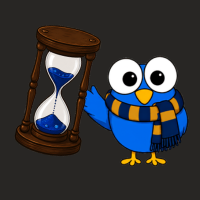
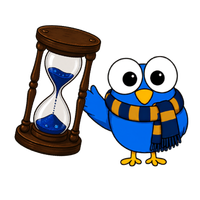
Refactor code structure for improved readability and maintainability

diff --git a/kolej.html b/kolej.html
@@ -73,7 +73,7 @@
       <i><p style="color: #4affa4; font-weight: bold; margin-bottom: 12px;">*Orel uznale pokývne hlavou a dveře se s hlasitým cvaknutím otevřou. Vstoupíš do trezoru.*</p></i>
       <div class="hp-trezor-box">
         <div class="hp-trezor-header">
-          <img src="ikony/presypacihodiny.png" alt="Safír"><h3>Safírový trezor</h3>
+          <img src="kdovik_obrazky/presypacihodiny.png" alt="Safír"><h3>Safírový trezor</h3>
           <p style="font-size:12px; color:#aebbc8;">Zde vidíš přehled všech safírů, které se ti podařilo získat.
            Co teď? Pošli některému z Péček sovu, aby ti je vyměnili za předměty z Příčné ulice či Prasinek!
              Hodnota jednoho safíru jsou <b>2 galeony</b>.</p> 
@@ -265,10 +265,12 @@
     <h2>Motivační soutěže</h2>
     <div id="hp-flag-list" class="hp-flag-list">
       <div style="background:var(--surface); border: 1px solid var(--border); padding:15px; border-radius:8px; text-align:left; margin-bottom:10px;">
-        <strong style="color:var(--gold); font-size:14px;">Aktuální kolejní výzva:</strong>
-        <p style="font-size:12px; margin-top:5px; line-height:1.4;">Sbírejte body, hledejte tajné balíčky a pomozte Havraspáru vyhrát školní pohár! Každá snaha se počítá a přispívá k triumfu naší kolejní věže.</p>
+        <img src="kdovik_obrazky/kdovik_tk.png" alt="Kdovíkova výprava do komnat" style="width:60%; max-width:180px; border-radius:6px; margin:8px auto 0; display:block;">
+        <strong style="color:var(--gold); font-size:14px; display:block; margin-top:10px;">Kdovíkova výprava do komnat</strong>
+        <p style="font-size:12px; margin-top:8px; line-height:1.4;">Vydej se hledat ukrytou tajemnou komnatu a odhal místo, které čeká jen na ty nejzvídavější studenty. Za nalezení komnaty a vstup do jejího tajemného prostoru můžeš získat safíry do svého safírového konta.</p>
+        <p style="font-size:11px; margin-top:8px; color:#aebbc8; font-style:italic;">O tuto aktivitu se stará Mia Rose.</p>
 
-        <div style="text-align: center; margin-top: 15px;">
+        <div style="text-align: center; margin-top: 12px;">
           <a href="#" target="_blank" style="text-decoration: none;">
             <button style="width: 75%; background: linear-gradient(180deg, #b58900 0%, #856404 100%); border-color: var(--gold);">
                Výsledky motivaček za měsíce
@@ -277,10 +279,12 @@
         </div>
       </div>
       <div style="background:var(--surface); border: 1px solid var(--border); padding:15px; border-radius:8px; text-align:left; margin-bottom:10px;">
-        <strong style="color:var(--gold); font-size:14px;">Aktuální kolejní výzva:</strong>
-        <p style="font-size:12px; margin-top:5px; line-height:1.4;">Sbírejte body, hledejte tajné balíčky a pomozte Havraspáru vyhrát školní pohár! Každá snaha se počítá a přispívá k triumfu naší kolejní věže.</p>
+        <img src="kdovik_obrazky/kdovik_postup.png" alt="Kdovíkův školní pohár" style="width:60%; max-width:180px; border-radius:6px; margin:8px auto 0; display:block;">
+        <strong style="color:var(--gold); font-size:14px; display:block; margin-top:10px;">Kdovíkův školní pohár</strong>
+        <p style="font-size:12px; margin-top:8px; line-height:1.4;">Každý bod se počítá! Pomoz své koleji získávat body do školního poháru a přispěj k jejímu vítězství. Za svou aktivitu, úspěchy a nasbírané body můžeš získat safíry do svého safírového konta.</p>
+        <p style="font-size:11px; margin-top:8px; color:#aebbc8; font-style:italic;">O tuto aktivitu se stará Mia Rose.</p>
 
-        <div style="text-align: center; margin-top: 15px;">
+        <div style="text-align: center; margin-top: 12px;">
           <a href="#" target="_blank" style="text-decoration: none;">
             <button style="width: 75%; background: linear-gradient(180deg, #b58900 0%, #856404 100%); border-color: var(--gold);">
                Výsledky motivaček za měsíce
@@ -289,10 +293,12 @@
         </div>
       </div>
       <div style="background:var(--surface); border: 1px solid var(--border); padding:15px; border-radius:8px; text-align:left; margin-bottom:10px;">
-        <strong style="color:var(--gold); font-size:14px;">Aktuální kolejní výzva:</strong>
-        <p style="font-size:12px; margin-top:5px; line-height:1.4;">Sbírejte body, hledejte tajné balíčky a pomozte Havraspáru vyhrát školní pohár! Každá snaha se počítá a přispívá k triumfu naší kolejní věže.</p>
+        <img src="kdovik_obrazky/kdovik_obruce.png" alt="Připrav se na pořádný famfrpálový trénink! Létej s Kdovíkem" style="width:60%; max-width:180px; border-radius:6px; margin:8px auto 0; display:block;">
+        <strong style="color:var(--gold); font-size:14px; display:block; margin-top:10px;">Připrav se na pořádný famfrpálový trénink! Létej s Kdovíkem</strong>
+        <p style="font-size:12px; margin-top:8px; line-height:1.4;">Zlepšuj své schopnosti, piluj své dovednosti a staň se lepším hráčem pod Kdovíkovým dohledem. Za svou snahu, pravidelný trénink a pokroky můžeš získat safíry do svého safírového konta.</p>
+        <p style="font-size:11px; margin-top:8px; color:#aebbc8; font-style:italic;">O tuto aktivitu se stará Mia Rose.</p>
 
-        <div style="text-align: center; margin-top: 15px;">
+        <div style="text-align: center; margin-top: 12px;">
           <a href="#" target="_blank" style="text-decoration: none;">
             <button style="width: 75%; background: linear-gradient(180deg, #b58900 0%, #856404 100%); border-color: var(--gold);">
                Výsledky motivaček za měsíce
@@ -301,10 +307,12 @@
         </div>
       </div>
       <div style="background:var(--surface); border: 1px solid var(--border); padding:15px; border-radius:8px; text-align:left; margin-bottom:10px;">
-        <strong style="color:var(--gold); font-size:14px;">Aktuální kolejní výzva:</strong>
-        <p style="font-size:12px; margin-top:5px; line-height:1.4;">Sbírejte body, hledejte tajné balíčky a pomozte Havraspáru vyhrát školní pohár! Každá snaha se počítá a přispívá k triumfu naší kolejní věže.</p>
+        <img src="kdovik_obrazky/kdovik_knihy_levitujici.png" alt="Moudrý Kdovík" style="width:60%; max-width:180px; border-radius:6px; margin:8px auto 0; display:block;">
+        <strong style="color:var(--gold); font-size:14px; display:block; margin-top:10px;">Moudrý Kdovík</strong>
+        <p style="font-size:12px; margin-top:8px; line-height:1.4;">Ukaž své znalosti v odborných učebnách, vyřeš zapeklité otázky a prokaž svou moudrost. Za správné odpovědi a úspěšné splnění vědomostních výzev můžeš získat safíry do svého safírového konta.</p>
+        <p style="font-size:11px; margin-top:8px; color:#aebbc8; font-style:italic;">O tuto aktivitu se stará Mia Rose.</p>
 
-        <div style="text-align: center; margin-top: 15px;">
+        <div style="text-align: center; margin-top: 12px;">
           <a href="#" target="_blank" style="text-decoration: none;">
             <button style="width: 75%; background: linear-gradient(180deg, #b58900 0%, #856404 100%); border-color: var(--gold);">
                Výsledky motivaček za měsíce
@@ -313,10 +321,12 @@
         </div>
       </div>
       <div style="background:var(--surface); border: 1px solid var(--border); padding:15px; border-radius:8px; text-align:left; margin-bottom:10px;">
-        <strong style="color:var(--gold); font-size:14px;">Aktuální kolejní výzva:</strong>
-        <p style="font-size:12px; margin-top:5px; line-height:1.4;">Sbírejte body, hledejte tajné balíčky a pomozte Havraspáru vyhrát školní pohár! Každá snaha se počítá a přispívá k triumfu naší kolejní věže.</p>
+        <img src="kdovik_obrazky/kdovik_uceni.png" alt="Zvídavý Kdovík" style="width:60%; max-width:180px; border-radius:6px; margin:8px auto 0; display:block;">
+        <strong style="color:var(--gold); font-size:14px; display:block; margin-top:10px;">Zvídavý Kdovík</strong>
+        <p style="font-size:12px; margin-top:8px; line-height:1.4;">Kdovík se vydává na cestu poznání a zve tě do školních lavic, kde můžeš objevovat nová kouzla, vědomosti a dovednosti. Za každých 10+32 bodů získaných na hodinách ti přiletí safíry do tvého safírového konta.</p>
+        <p style="font-size:11px; margin-top:8px; color:#aebbc8; font-style:italic;">O tuto aktivitu se stará Mia Rose.</p>
 
-        <div style="text-align: center; margin-top: 15px;">
+        <div style="text-align: center; margin-top: 12px;">
           <a href="#" target="_blank" style="text-decoration: none;">
             <button style="width: 75%; background: linear-gradient(180deg, #b58900 0%, #856404 100%); border-color: var(--gold);">
                Výsledky motivaček za měsíce
@@ -325,10 +335,25 @@
         </div>
       </div>
       <div style="background:var(--surface); border: 1px solid var(--border); padding:15px; border-radius:8px; text-align:left; margin-bottom:10px;">
-        <strong style="color:var(--gold); font-size:14px;">Aktuální kolejní výzva:</strong>
-        <p style="font-size:12px; margin-top:5px; line-height:1.4;">Sbírejte body, hledejte tajné balíčky a pomozte Havraspáru vyhrát školní pohár! Každá snaha se počítá a přispívá k triumfu naší kolejní věže.</p>
+        <img src="kdovik_obrazky/kdovik_pise.png" alt="Kdovíkova otázka dne" style="width:60%; max-width:180px; border-radius:6px; margin:8px auto 0; display:block;">
+        <strong style="color:var(--gold); font-size:14px; display:block; margin-top:10px;">Kdovíkova otázka dne</strong>
+        <p style="font-size:12px; margin-top:8px; line-height:1.4;">Každý všední den se v kolejce objeví nová otázka od Kdovíka. Buď rychlý, odpověz správně jako první a můžeš získat safírovou i sladkou odměnu na své konto.</p>
+        <p style="font-size:11px; margin-top:8px; color:#aebbc8; font-style:italic;">Tuto aktivitu má na starosti Shaunee.</p>
 
-        <div style="text-align: center; margin-top: 15px;">
+        <div style="text-align: center; margin-top: 12px;">
+          <a href="#" target="_blank" style="text-decoration: none;">
+            <button style="width: 75%; background: linear-gradient(180deg, #b58900 0%, #856404 100%); border-color: var(--gold);">
+               Výsledky motivaček za měsíce
+            </button>
+          </a>
+        </div>
+      </div>
+      <div style="background:var(--surface); border: 1px solid var(--border); padding:15px; border-radius:8px; text-align:left; margin-bottom:10px;">
+        <strong style="color:var(--gold); font-size:14px; display:block; margin-top:10px;">Kdovíkova víkendová výzva</strong>
+        <p style="font-size:12px; margin-top:8px; line-height:1.4;">Každý víkend na tebe čeká speciální soutěž nebo úkol připravený Kdovíkem. Zapoj se, splň výzvu a můžeš získat extra safíry do svého safírového konta.</p>
+        <p style="font-size:11px; margin-top:8px; color:#aebbc8; font-style:italic;">O tuto aktivitu se stará Mia Rose.</p>
+
+        <div style="text-align: center; margin-top: 12px;">
           <a href="#" target="_blank" style="text-decoration: none;">
             <button style="width: 75%; background: linear-gradient(180deg, #b58900 0%, #856404 100%); border-color: var(--gold);">
                Výsledky motivaček za měsíce
